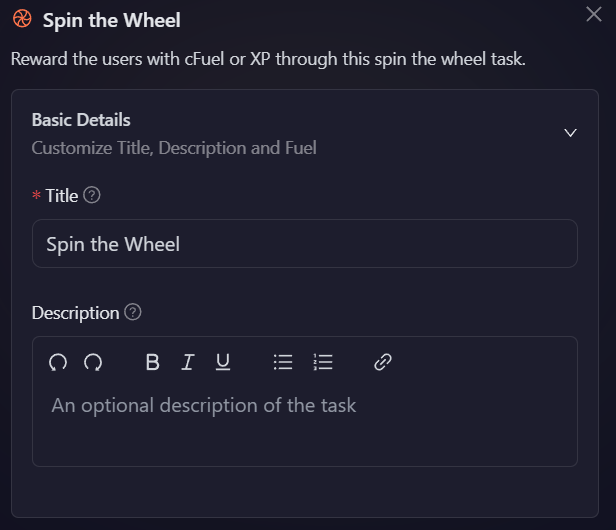
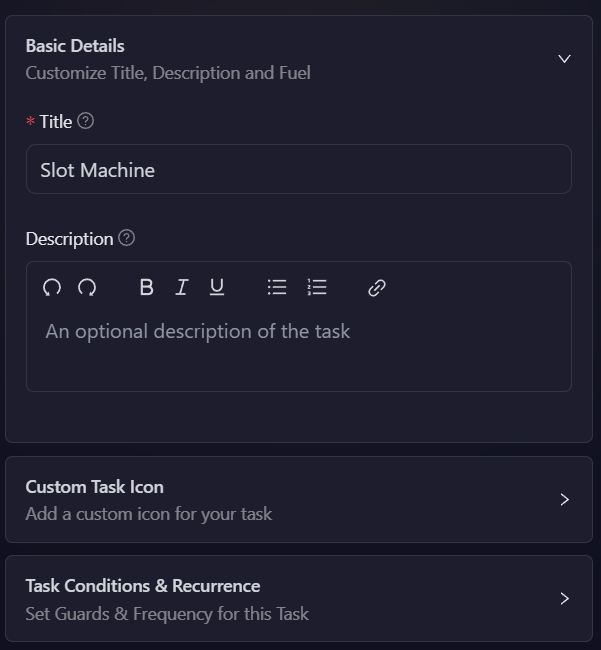
lucky draw

diff --git a/docs/campaign/quests/lucky-draw.md b/docs/campaign/quests/lucky-draw.md
@@ -1,0 +1,104 @@
+# Lucky Draw
+
+Lucky Draw tasks add an exciting element of chance to your campaigns, helping boost participant engagement through gamification. Whether it's spinning a wheel, pulling a slot machine, or opening mystery boxes, these interactive rewards create memorable moments that keep your community coming back for more. It's a perfect way to make reward distribution more entertaining while encouraging active participation in your campaign.
+
+## ✅ Steps to Create a Lucky Draw Task
+
+### 1. Login to the AirLyft Dashboard
+
+Go to [account.airlyft.one](https://account.airlyft.one) and log in to your project dashboard.
+
+---
+
+### 2. Create a Campaign
+
+Click on **"Create Campaign"** and fill out the basic campaign details such as campaign name, description, and duration.
+
+---
+
+### 3. Choose the type of Lucky Draw you want to create
+
+Within your campaign:
+
+- Click on Quests tab and Choose the task type: **Lucky Draw**.
+
+  ![Lucky draw main](../../images/SpinTheWheelMain.png)
+
+- There are three types of Lucky Draw tasks available:
+
+  - [**Spin the Wheel**](#to-setup-spin-the-wheel-task): Participants spin the wheel to win rewards based on predefined probabilities.
+  - [**Slot Machine**](#to-setup-slot-machine-task): Spin the slot machine and stand a chance to win amazing prices.
+  - [**Mystery Box**](#to-setup-mystery-box-task): Open the mystery box and stand a chance to win amazing prices.
+
+  ![Lucky draw options](../../images/LuckyDrawOption.png)
+
+---
+
+### 4. Configure Task Settings
+
+Fill out the following details:
+
+- **Task Title**: Name of the task
+- **Points**: How many points to reward for successful submission
+
+  ![Spin Basics](../../images/SpinTheWheelBasics.png)
+
+- Next, you can personalize the task further by adding a **custom task icon**.
+
+  ![Spin main](../../images/SpinTheWheelCustom.png)
+
+- To configure the **Task Condition & Recurrence**, refer to the [Task Condition & Recurrence](../task-condition-and-recurrence.md) page.
+
+- Choose the **reward type**, either **cFuel** or **XP**, based on what you want participants to receive.
+
+---
+
+#### To setup Spin The Wheel Task
+
+- Enter the **reward amounts** and their respective **winning probabilities**. For example:
+
+  - You can set up different reward tiers like:
+    - 100 cFuel with 10% probability (rare reward)
+    - 50 cFuel with 30% probability (uncommon reward)
+    - 20 cFuel with 60% probability (common reward)
+
+  ![Spin reward](../../images/SpinTheWheelChoose.png)
+
+---
+
+#### To setup Slot Machine Task
+
+- Enter different amounts for predefined winning probabilities:
+
+  - **Jackpot** (11%)
+  - **Big Win** (67%)
+  - **Small Win** (22%)
+
+- Addtionally, you can set up **Slot Machine Icons**.
+
+  ![Spin reward](../../images/slotmachine.png)
+
+---
+
+#### To setup Mystery Box Task
+
+- Similar to **Spin the Wheel**, enter the **reward amounts** and their respective **winning probabilities**.
+
+  ![Spin reward](../../images/mysterybox.png)
+
+  The probabilities must add up to 100%. This setup ensures that different rewards have different chances of being won, creating an exciting and dynamic experience for participants. In the example above, when a user spins the wheel, they have a 60% chance to win 20 cFuel, a 30% chance to win 50 cFuel, and a 10% chance to win 100 cFuel.
+
+---
+
+### 5. Save the Task
+
+Click **Add Task** to add the Lucky Draw task to your campaign. Once saved, the task will be live for participants to engage with.
+
+:::tip For instant help
+
+1. Create a support ticket on our Discord: https://discord.gg/bx6ZCTwbYw
+2. Join [this Telegram group](https://t.me/kyteone): https://t.me/kyteone
+
+**_The AirLyft Team is there to help you. AirLyft is a platform to run marketing events, campaigns, quests and automatically distribute NFTs or Tokens as rewards._**
+
+:::
